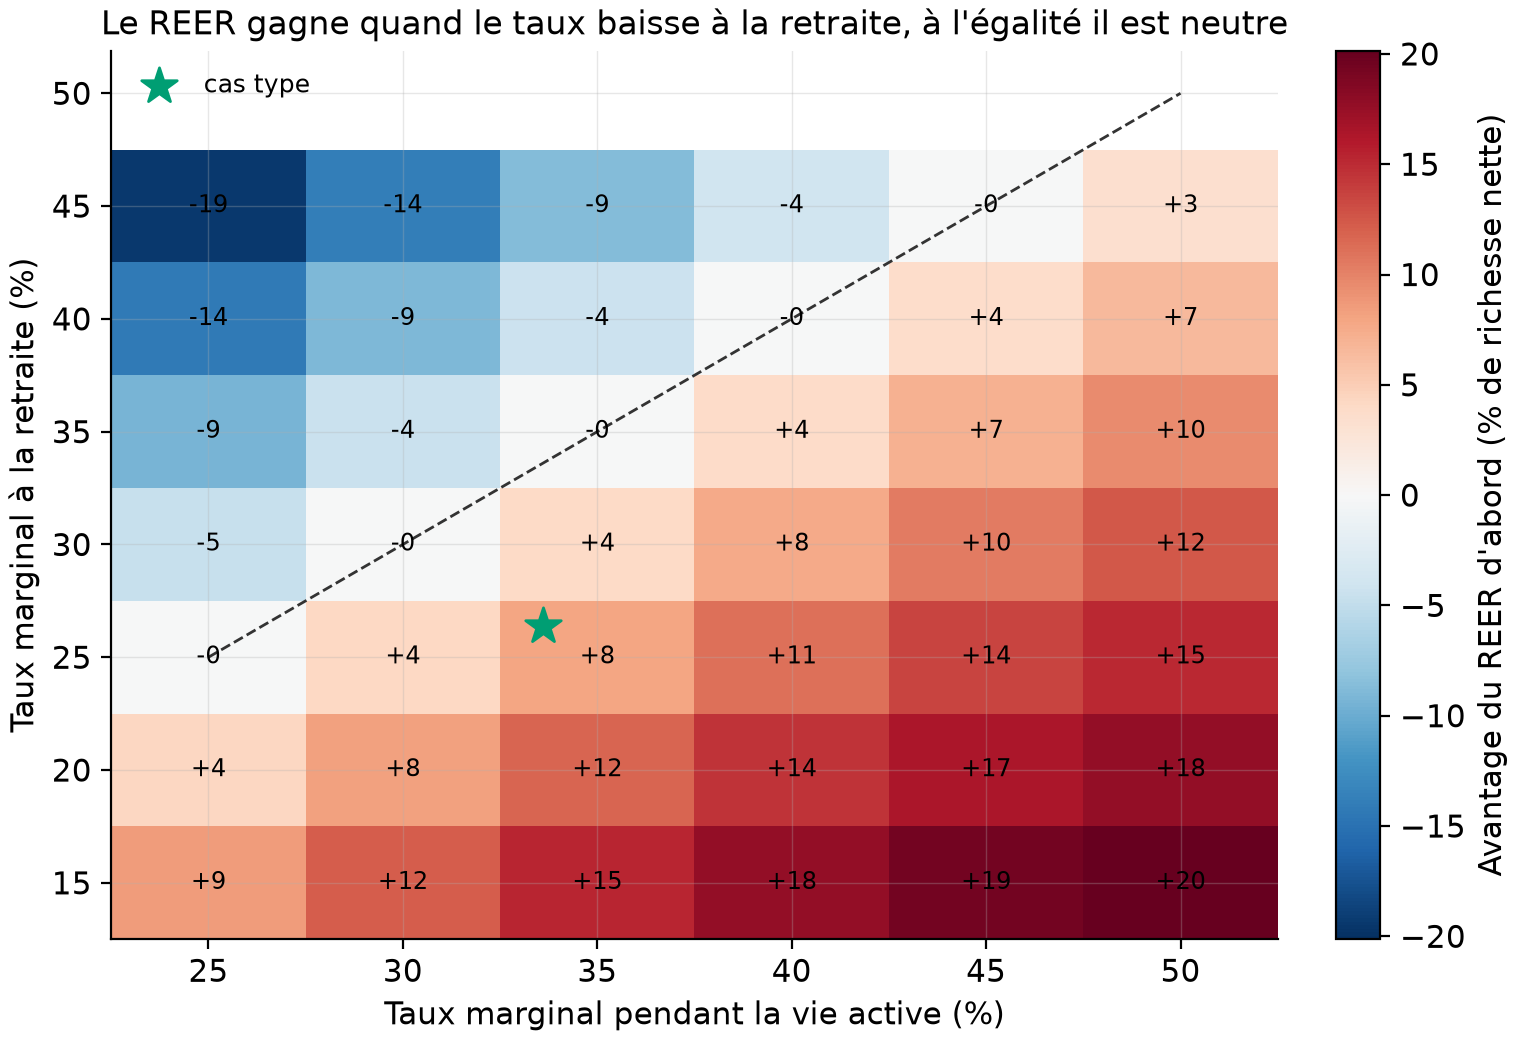
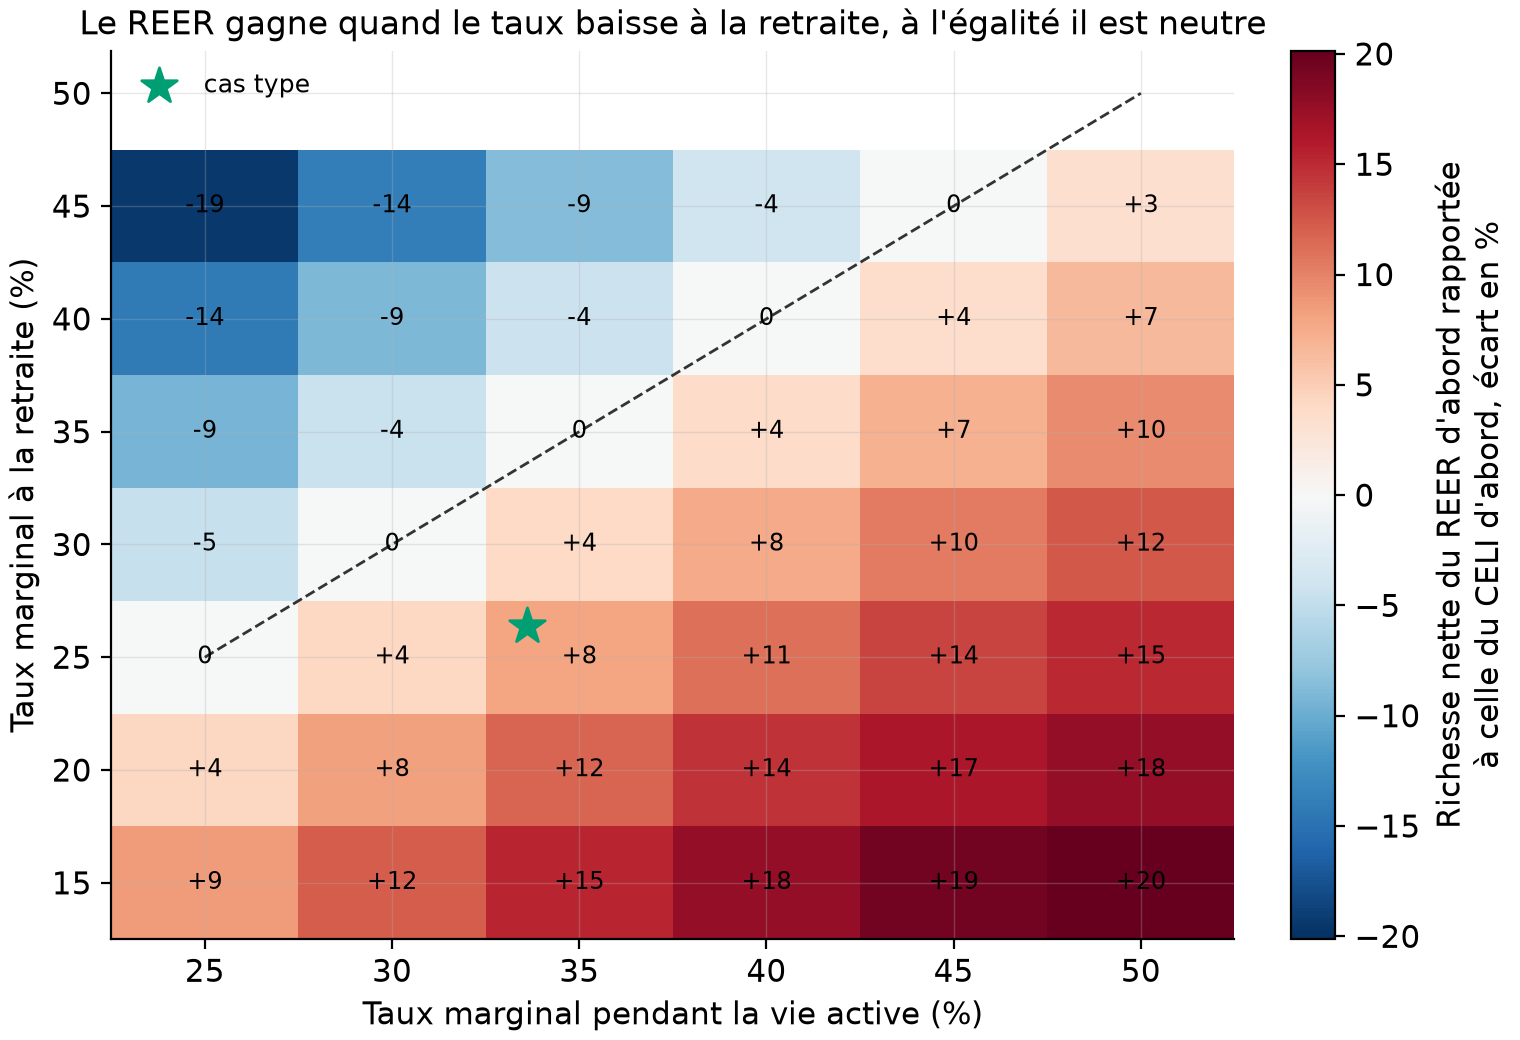
Audit : le plan était en dollars courants sans le dire
Les 10 000 $ cotisés et les 30 000 $ visés n'étaient jamais revalorisés sur
cinquante-cinq ans. run_monte_carlo prend désormais un paramètre inflation qui indexe les
deux, et sensibilites.csv chiffre les trois conventions les plus lourdes : le plan indexé
à 2 %/an fait tomber la probabilité d'atteinte de 99,5 % à 90,5 % et l'avantage du REER
d'abord de +8,0 % à +3,8 % ; le remboursement dépensé inverse le classement (-18,9 %) ;
les droits REER d'un revenu de 150 000 $ portent l'avantage à +10,3 %. La date du
remboursement (l'année même, ce qui suppose un T1213) est déclarée.

Figures : l'ordonnée de l'éventail disait « ($, brute : REER avant impôt) », les
centiles s'écrivaient p5 et p95, la barre de couleur ne disait pas de quoi le pourcentage
était le pourcentage, et les cases nulles de la carte affichaient « -0 ».

diff --git a/src/pec/simulate.py b/src/pec/simulate.py
@@ -31,14 +31,19 @@ def rendement_deterministe(mensuels: np.ndarray) -> float:
     return float((1.0 + mensuels).prod() ** (12.0 / len(mensuels)) - 1.0)
 
 
-def accumuler_vec(acc: np.ndarray, budget: float, ordre: str, f: Fiscalite) -> tuple[np.ndarray, ...]:
-    """L'accumulation sur toutes les trajectoires à la fois ; mêmes conventions que fiscal.accumuler."""
+def accumuler_vec(acc: np.ndarray, budget: float, ordre: str, f: Fiscalite,
+                  inflation: float = 0.0) -> tuple[np.ndarray, ...]:
+    """L'accumulation sur toutes les trajectoires à la fois ; mêmes conventions que fiscal.accumuler.
+
+    ``inflation`` indexe le budget annuel : à 0, le plan est en dollars COURANTS et le même montant
+    nominal est versé pendant trente ans, ce qui fait baisser l'effort réel d'année en année.
+    """
     n_traj, n_annees = acc.shape
     reer = np.zeros(n_traj)
     celi = np.zeros(n_traj)
     ni = np.zeros(n_traj)
-    d_reer, d_celi, d_ni = cotiser(budget, ordre, f)      # budget constant : mêmes dépôts chaque année
     for a in range(n_annees):
+        d_reer, d_celi, d_ni = cotiser(budget * (1.0 + inflation) ** a, ordre, f)
         r = acc[:, a]
         reer = (reer + d_reer) * (1.0 + r)
         celi = (celi + d_celi) * (1.0 + r)
@@ -47,9 +52,14 @@ def accumuler_vec(acc: np.ndarray, budget: float, ordre: str, f: Fiscalite) -> t
 
 
 def decumuler_vec(reer0: np.ndarray, celi0: np.ndarray, ni0: np.ndarray, ret: np.ndarray,
-                  cible: np.ndarray | float, f: Fiscalite) -> tuple[np.ndarray, np.ndarray]:
+                  cible: np.ndarray | float, f: Fiscalite,
+                  inflation: float = 0.0) -> tuple[np.ndarray, np.ndarray]:
     """La décumulation vectorisée (retrait début d'année, ordre NI -> REER -> CELI) ;
-    retourne (années financées, legs net, 0 si ruine)."""
+    retourne (années financées, legs net, 0 si ruine).
+
+    ``inflation`` indexe la cible d'une année à l'autre : à 0, le revenu visé reste NOMINAL et son
+    pouvoir d'achat s'érode pendant toute la retraite.
+    """
     n_traj, n_annees = ret.shape
     reer, celi, ni = reer0.copy(), celi0.copy(), ni0.copy()
     cible = np.broadcast_to(np.asarray(cible, dtype=float), (n_traj,)).copy()
@@ -73,6 +83,7 @@ def decumuler_vec(reer0: np.ndarray, celi0: np.ndarray, ni0: np.ndarray, ret: np
         reer *= 1.0 + r
         celi *= 1.0 + r
         ni *= 1.0 + taux_net_ni(r, f)
+        cible = cible * (1.0 + inflation)
     legs = np.where(vivant, celi + ni + reer * (1.0 - f.tau_retraite), 0.0)
     return annees, legs
 
@@ -98,18 +109,25 @@ def revenu_soutenable_vec(reer: np.ndarray, celi: np.ndarray, ni: np.ndarray, re
 
 def run_monte_carlo(mensuels: np.ndarray, f: Fiscalite, budget: float,
                     annees_acc: int, annees_ret: int, cible_nette: float,
-                    n_traj: int = 10_000, seed: int = 0) -> pd.DataFrame:
+                    n_traj: int = 10_000, seed: int = 0,
+                    inflation: float = 0.0) -> pd.DataFrame:
     """Toutes les trajectoires pour les trois ordres de remplissage ; une ligne par trajectoire.
 
     Les mêmes tirages de rendements servent aux trois ordres : la comparaison est appariée.
+
+    ``inflation`` indexe le budget de cotisation ET la cible de revenu. Le défaut de 0 garde le
+    plan en dollars COURANTS, la convention des chiffres publiés : les 10 000 $ cotisés et les
+    30 000 $ visés ne sont jamais revalorisés sur cinquante-cinq ans, ce qui flatte la probabilité
+    d'atteinte. La variante indexée est mesurée dans `results/tables/sensibilites.csv`.
     """
     rng = np.random.default_rng(seed)
     acc = annees_bootstrap(mensuels, annees_acc, n_traj, rng)
     ret = annees_bootstrap(mensuels, annees_ret, n_traj, rng)
     frames = []
     for ordre in ORDRES:
-        reer, celi, ni = accumuler_vec(acc, budget, ordre, f)
-        annees, legs = decumuler_vec(reer, celi, ni, ret, cible_nette, f)
+        reer, celi, ni = accumuler_vec(acc, budget, ordre, f, inflation=inflation)
+        cible_debut = cible_nette * (1.0 + inflation) ** annees_acc
+        annees, legs = decumuler_vec(reer, celi, ni, ret, cible_debut, f, inflation=inflation)
         frames.append(pd.DataFrame({
             "ordre": ordre, "traj": np.arange(n_traj),
             "richesse_brute": reer + celi + ni,

diff --git a/src/pec/figures.py b/src/pec/figures.py
@@ -40,15 +40,15 @@ def fig_fan(fan: pd.DataFrame, promesse: pd.Series | None, dest: Path) -> None:
     fig, ax = plt.subplots(figsize=(8.8, 4.6))
     x = fan["annee"]
     ax.fill_between(x, fan["p5"], fan["p95"], color=OKABE_ITO[0], alpha=0.15,
-                    label="90 % des trajectoires (p5 à p95)")
+                    label="90 % des trajectoires (5e au 95e centile)")
     ax.fill_between(x, fan["p25"], fan["p75"], color=OKABE_ITO[0], alpha=0.35,
-                    label="La moitié centrale (p25 à p75)")
+                    label="La moitié centrale (25e au 75e centile)")
     ax.plot(x, fan["p50"], color=OKABE_ITO[0], label=f"Médiane ({_milliers(fan['p50'].iloc[-1])} $)")
     if promesse is not None:
         ax.plot(promesse.index, promesse.to_numpy(), color=OKABE_ITO[3], linestyle="--",
                 label=f"Plan à rendement constant ({_milliers(float(promesse.iloc[-1]))} $)")
     ax.set_xlabel("Années d'épargne")
-    ax.set_ylabel("Richesse accumulée ($, brute : REER avant impôt)")
+    ax.set_ylabel("Richesse accumulée (dollars)\nREER compté avant impôt sur les retraits", fontsize=10)
     ax.yaxis.set_major_formatter(FuncFormatter(lambda v, _: _milliers(v)))
     ax.legend(fontsize=9, loc="upper left")
     ax.set_title("Le même plan, dix mille avenirs : l'éventail s'ouvre avec les années")
@@ -93,8 +93,9 @@ def fig_carte(carte: pd.DataFrame, cas_type: tuple[float, float], dest: Path) ->
     im = ax.pcolormesh(piv.columns * 100, piv.index * 100, piv.to_numpy(),
                        cmap="RdBu_r", vmin=-vmax, vmax=vmax, shading="nearest")
     for (tr, ta), v in piv.stack().items():
-        ax.text(ta * 100, tr * 100, f"{v:+.0f}".replace(".", ","), ha="center", va="center",
-                fontsize=8.5, color="black")
+        # « -0 » et « +0 » sont des artefacts d'arrondi : une case sous le demi-point s'écrit 0
+        texte = "0" if abs(v) < 0.5 else f"{v:+.0f}"
+        ax.text(ta * 100, tr * 100, texte, ha="center", va="center", fontsize=8.5, color="black")
     ax.plot([piv.columns.min() * 100, piv.columns.max() * 100],
             [piv.columns.min() * 100, piv.columns.max() * 100], color="0.2", linewidth=1.0,
             linestyle="--")
@@ -105,7 +106,7 @@ def fig_carte(carte: pd.DataFrame, cas_type: tuple[float, float], dest: Path) ->
     ax.xaxis.set_major_formatter(fr)
     ax.yaxis.set_major_formatter(fr)
     cb = fig.colorbar(im, ax=ax)
-    cb.set_label("Avantage du REER d'abord (% de richesse nette)")
+    cb.set_label("Richesse nette du REER d'abord rapportée\nà celle du CELI d'abord, écart en %")
     ax.legend(fontsize=9, loc="upper left")
     ax.set_title("Le REER gagne quand le taux baisse à la retraite, à l'égalité il est neutre")
     fig.savefig(dest)

diff --git a/src/pec/cli.py b/src/pec/cli.py
@@ -104,6 +104,30 @@ def simulate(out: Path = Path("results"), n_traj: int = 10_000, seed: int = 0) -
     resume_p.round(4).to_csv(tables / "resume_ordres_prudent.csv", index=False)
     pd.DataFrame([det_p]).round(4).to_csv(tables / "plan_deterministe_prudent.csv", index=False)
 
+    # ce que coûtent les trois conventions les plus lourdes, chacune REJOUÉE ici plutôt que
+    # discutée : l'absence d'indexation, la date du remboursement d'impôt, le plafond REER
+    from pec.fiscal import Fiscalite
+
+    sens = []
+    for nom, kwargs, f_var in [
+        ("référence (dollars courants, remboursement réinvesti la même année)", {}, f),
+        ("cible et cotisations indexées à 2 % par an", {"inflation": 0.02}, f),
+        ("remboursement d'impôt dépensé au lieu d'être réinvesti", {},
+         Fiscalite(tau_actif=TAU_ACTIF, tau_retraite=TAU_RETRAITE, remboursement_reinvesti=False)),
+        ("droits REER d'un revenu de 150 000 $ (27 000 $ au lieu de 12 960 $)", {},
+         Fiscalite(tau_actif=TAU_ACTIF, tau_retraite=TAU_RETRAITE, plafond_reer=27_000.0)),
+    ]:
+        m = simulate.run_monte_carlo(mensuels, f_var, BUDGET, ANNEES_ACC, ANNEES_RET, CIBLE,
+                                     n_traj=n_traj, seed=seed, **kwargs)
+        r_ = m[m["ordre"] == "reer_d_abord"]
+        c_ = m[m["ordre"] == "celi_d_abord"]
+        sens.append({"variante": nom,
+                     "p_succes_reer_d_abord": float(r_["succes"].mean()),
+                     "richesse_nette_mediane_reer": float(r_["richesse_nette"].median()),
+                     "avantage_reer_sur_celi_pct": 100.0 * (float(r_["richesse_nette"].median())
+                                                            / float(c_["richesse_nette"].median()) - 1.0)})
+    pd.DataFrame(sens).round(4).to_csv(tables / "sensibilites.csv", index=False)
+
     figures.fig_fan(fan, promesse, figs / "eventail_richesse.png")
     figures.fig_revenu(mc, det["revenu_promis"], CIBLE, figs / "revenu_soutenable.png")
     figures.fig_carte(carte, (TAU_ACTIF, TAU_RETRAITE), figs / "carte_des_ordres.png")
@@ -111,6 +135,8 @@ def simulate(out: Path = Path("results"), n_traj: int = 10_000, seed: int = 0) -
     typer.echo(f"rendement constant du plan sur papier : {100 * det['rendement_constant']:.2f} %/an ; "
                f"revenu promis {det['revenu_promis']:,.0f} $".replace(",", " "))
     typer.echo(resume.round(3).to_string(index=False))
+    typer.echo("sensibilité aux conventions :")
+    typer.echo(pd.DataFrame(sens).round(3).to_string(index=False))
 
 
 if __name__ == "__main__":

diff --git a/README.md b/README.md
@@ -163,12 +163,24 @@ carte neutre sur la diagonale.
 
 ## Limites, avec statut
 
+Les trois premières sont chiffrées dans `results/tables/sensibilites.csv`, rejouées par
+`pec simulate` : aucune n'est discutée sans être mesurée.
+
+0. **Tout est en dollars COURANTS.** Les 10 000 $ cotisés chaque année et les 30 000 $ visés
+   à la retraite ne sont jamais revalorisés sur cinquante-cinq ans, et les rendements sont
+   nominaux. La probabilité d'atteinte de 99,5 % mesure donc la couverture d'une cible dont
+   le pouvoir d'achat s'érode. Le plan indexé à 2 % par an, cotisations ET cible, tombe à
+   **90,5 %**, et l'avantage du REER d'abord passe de +8,0 % à +3,8 % de richesse nette
+   (mesuré, option `inflation` de `run_monte_carlo`). C'est la limite qui déplace le plus le
+   verdict de tête.
 1. **Le verdict REER dépend de la convention de réinvestissement.** Le moteur réinvestit
    la chaîne complète des remboursements d'impôt ; si le remboursement est DÉPENSÉ, le
    classement s'inverse au cas type (CELI d'abord gagne de 18,9 % de richesse nette,
    mesuré, option `remboursement_reinvesti=False` et test dédié). L'avantage du REER est
    un pari sur les deux taux À CONVENTION DONNÉE, et la discipline de réinvestir le
-   remboursement en fait partie. (Mesuré.)
+   remboursement en fait partie. La convention porte aussi sur la DATE : le remboursement est
+   réinvesti l'année même de la cotisation, ce qui suppose une réduction de la retenue à la
+   source (formulaire T1213 au fédéral) ou une avance de trésorerie. (Mesuré et déclaré.)
 2. **La fiscalité est une maquette.** Taux marginaux constants par période, pas de paliers,
    pas de PSV ni de RRQ, pas de récupération de la PSV, pas de FERR à retraits minimums, pas
    de crédit d'impôt sur dividendes ; le non enregistré impose tout à l'inclusion de 50 %
@@ -186,6 +198,11 @@ carte neutre sur la diagonale.
 5. **Les plafonds sont figés** au niveau 2026 pendant 30 ans, sans indexation ni droits
    inutilisés reportés. (Déclaré ; l'indexation des deux plafonds jouerait dans le même
    sens pour les trois ordres.)
+5 bis. **Le plafond REER de 12 960 $ est ACTIF dans chaque case de la carte des taux**, alors
+   que le plafond et le taux marginal sont deux fonctions du même revenu : la carte suppose
+   partout les droits d'un revenu de 72 000 $. Avec les droits d'un revenu de 150 000 $
+   (27 000 $), l'avantage du REER d'abord au cas type passe de +8,0 % à +10,3 % de richesse
+   nette (mesuré). Lire une case suppose donc ce plafond-là, pas le vôtre. (Déclaré.)
 6. **Aucun conseil.** Ce dépôt compare des mécaniques sous hypothèses déclarées ; il ne
    connaît ni votre revenu, ni vos taux réels, ni votre tolérance au risque.
 
